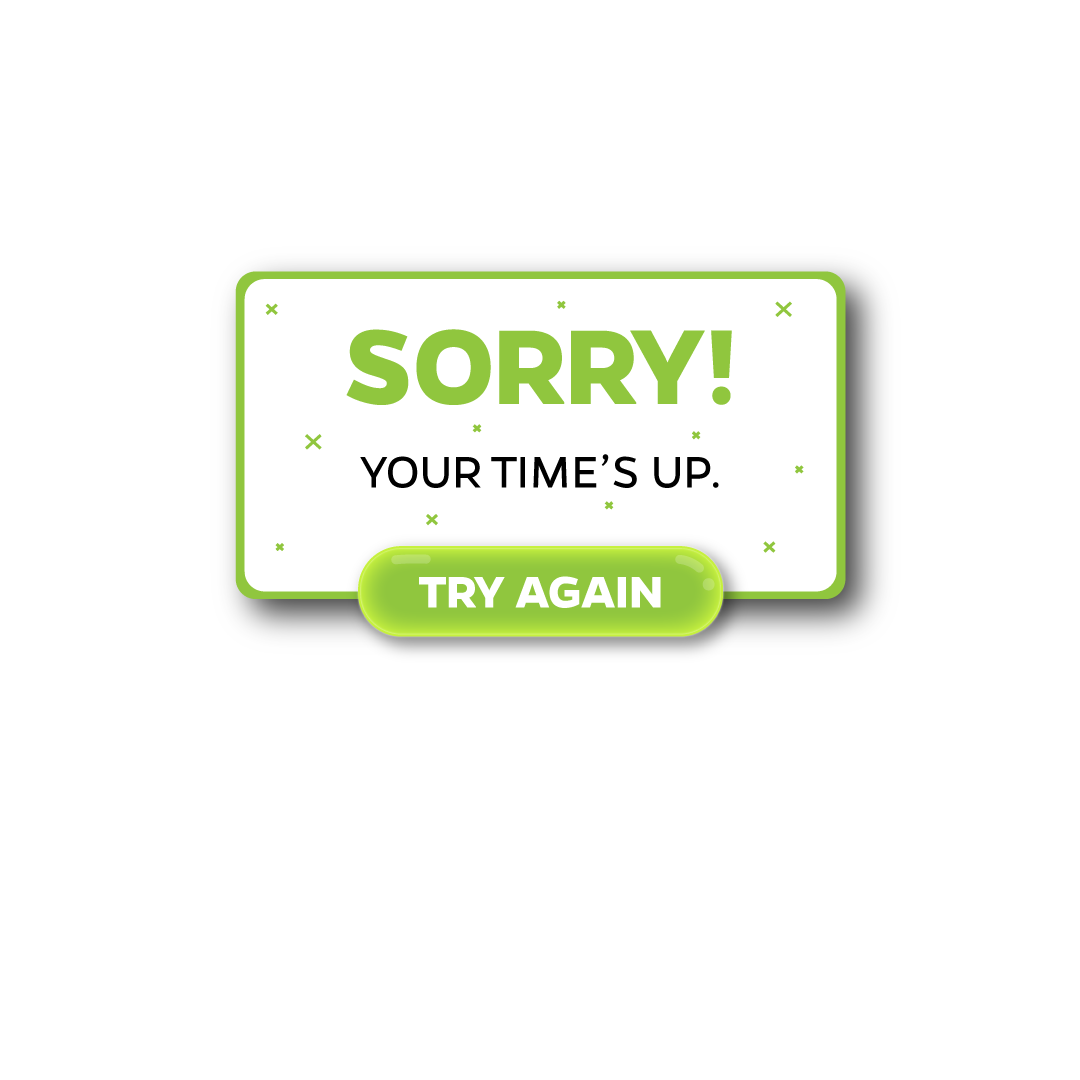
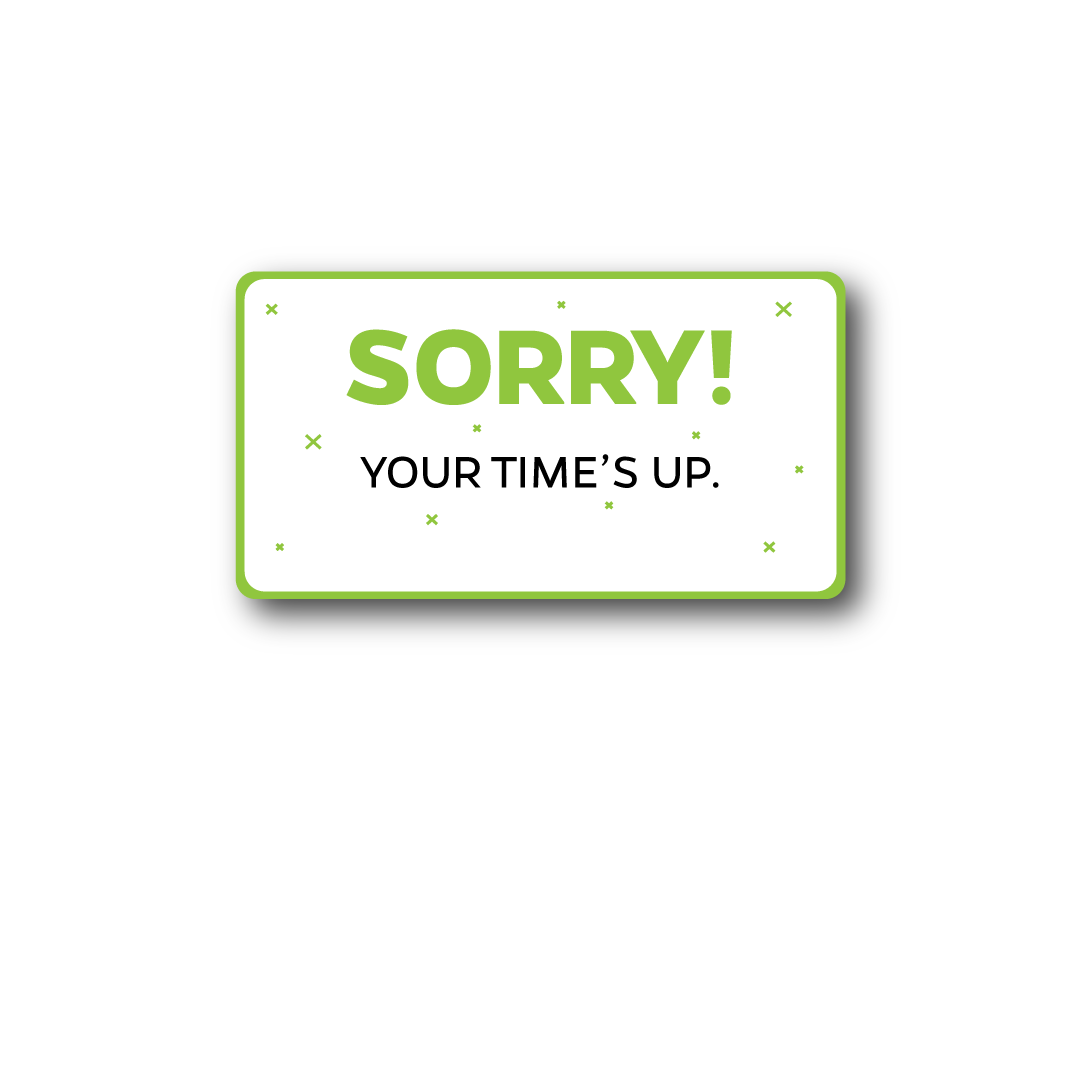
added cta buttons

Changed region(s): [[0.3361, 0.4889, 0.7028, 0.6111]]

diff --git a/games/olaRental/src/scenes/Lost.js b/games/olaRental/src/scenes/Lost.js
@@ -50,6 +50,9 @@ export default class LostScene extends Phaser.Scene
         this.loadinglogo = this.add.image(this.scale.width/2, this.scale.height/2, 'loading-logo')
         Align.scaleToGameW(this.loadinglogo, 0.25)
 
+        this.tryAgain = this.add.image(0, 0, 'final-tryAgain')
+        Align.scaleToGameW(this.tryAgain, 0.35)
+
         // screen width/height
         this.width = this.scale.width
         this.height = this.scale.height
@@ -63,6 +66,16 @@ export default class LostScene extends Phaser.Scene
         // logo
         this.loadinglogo.x = this.bgWidth - this.bgWidth / 6.5
         this.loadinglogo.y = (this.bgHeight / 13.2) + ((this.height - this.bgHeight) / 2)
+
+        // tryAgain
+        this.tryAgain.x = this.bgWidth / 2
+        this.tryAgain.y = (this.bgHeight / 1.83) + ((this.height - this.bgHeight) / 2)
+
+        this.tryAgain.setInteractive().on('pointerdown', function(pointer, localX, localY, event){
+            // start loading scene
+            this.scene.stop();
+            this.scene.launch('loading-scene');
+        }, this)
 
         this.lostAudio.play()
         

diff --git a/games/olaRental/src/scenes/Won.js b/games/olaRental/src/scenes/Won.js
@@ -50,6 +50,9 @@ export default class WonScene extends Phaser.Scene
         this.loadinglogo = this.add.image(this.scale.width/2, this.scale.height/2, 'loading-logo')
         Align.scaleToGameW(this.loadinglogo, 0.25)
 
+        this.bookNow = this.add.image(0, 0, 'final-bookNow')
+        Align.scaleToGameW(this.bookNow, 0.35)
+
         // screen width/height
         this.width = this.scale.width
         this.height = this.scale.height
@@ -63,6 +66,10 @@ export default class WonScene extends Phaser.Scene
         // logo
         this.loadinglogo.x = this.bgWidth - this.bgWidth / 6.5
         this.loadinglogo.y = (this.bgHeight / 13.2) + ((this.height - this.bgHeight) / 2)
+
+        // bookNow
+        this.bookNow.x = this.bgWidth / 2
+        this.bookNow.y = (this.bgHeight / 1.83) + ((this.height - this.bgHeight) / 2)
 
         this.wonAudio.play()
 

diff --git a/games/olaRental/src/scenes/LoadingScene.js b/games/olaRental/src/scenes/LoadingScene.js
@@ -72,9 +72,11 @@ export default class LoadingScene extends Phaser.Scene
         this.load.image("final-background", "assets/frame4-background.png")
         this.load.image("final-road", "assets/frame4-road.png")
         this.load.image("final-wonMsg", "assets/frame4-msg.png")
+        this.load.image("final-bookNow", "assets/frame4-bookNow.png")
 
         // frame5
         this.load.image("final-lostMsg", "assets/frame5-msg.png")
+        this.load.image("final-tryAgain", "assets/frame5-tryAgain.png")
 
         // audio
         this.load.audio("background", "assets/audio/background.mp3")
